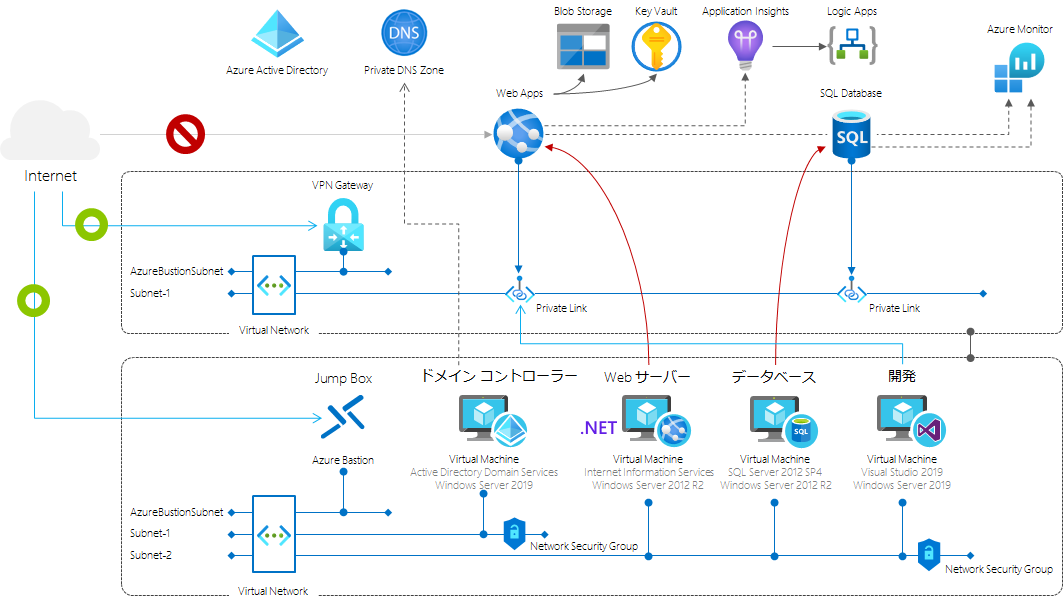
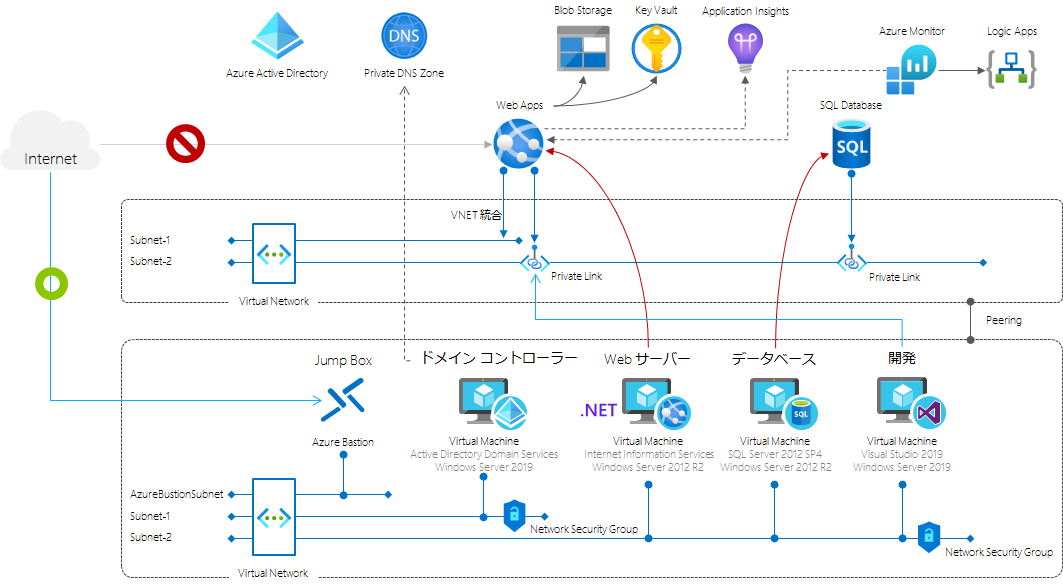
図の変更と参考情報の追加

diff --git a/Hands-on lab/HOL step-by-step -Server migration.md b/Hands-on lab/HOL step-by-step -Server migration.md
@@ -259,16 +259,18 @@ CPU 負荷が閾値を超えた場合にアプリケーションがスケール 
 <https://docs.microsoft.com/ja-jp/azure/dns/private-dns-overview>
 - **Azure プライベート エンドポイントを使用して非公開で Web Apps に接続する**  
 <https://docs.microsoft.com/ja-jp/azure/private-link/create-private-endpoint-webapp-portal>
+- **アプリを Azure 仮想ネットワークと統合する**  
+<https://docs.microsoft.com/ja-jp/azure/app-service/web-sites-integrate-with-vnet>
 - **AzureSQL Database と Azure Synapse Analytics の Private Link への対応**  
 <https://docs.microsoft.com/ja-jp/azure/azure-sql/database/private-endpoint-overview>
-- **Azure プライベート エンドポイントを使用して非公開でストレージ アカウントに接続する**  
-<https://docs.microsoft.com/ja-jp/azure/private-link/create-private-endpoint-storage-portal>
-- **Key Vault を Azure Private Link と統合する**  
-<https://docs.microsoft.com/ja-jp/azure/key-vault/general/private-link-service>
 - **仮想ネットワーク ピアリング**  
 <https://docs.microsoft.com/ja-jp/azure/virtual-network/virtual-network-peering-overview>
 - **仮想ネットワーク ピアリングで仮想ネットワークを接続する**  
 <https://docs.microsoft.com/ja-jp/azure/virtual-network/tutorial-connect-virtual-networks-portal>
+- **Azure プライベート エンドポイントを使用して非公開でストレージ アカウントに接続する**  
+<https://docs.microsoft.com/ja-jp/azure/private-link/create-private-endpoint-storage-portal>
+- **Key Vault を Azure Private Link と統合する**  
+<https://docs.microsoft.com/ja-jp/azure/key-vault/general/private-link-service>
 
 <br />
 
